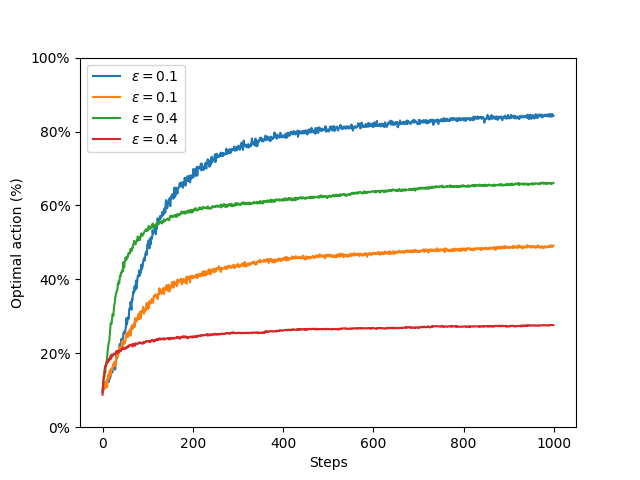
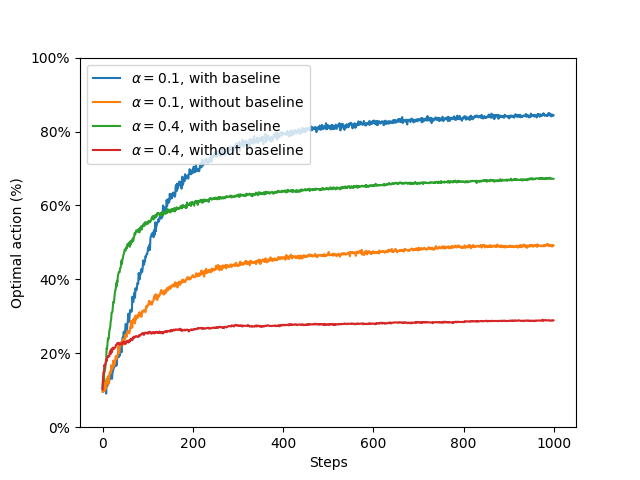
chore: Remove baseline legend from plotter

Changed region(s): [[0.125, 0.125, 0.875, 0.8438]]

diff --git a/experiments/Experiment.py b/experiments/Experiment.py
@@ -71,7 +71,7 @@ class Experiment:
             case ExperimentOption.OPTIMISTIC_INITIAL_VALUES:
                 return ["epsilon", "bias"]
             case ExperimentOption.GRADIENT_BANDIT:
-                return ["alpha", "use_baseline"]
+                return ["alpha"]
             case _:
                 raise ValueError("Invalid option")
 

diff --git a/Plotter.py b/Plotter.py
@@ -42,6 +42,6 @@ class Plotter:
             return f"$Q_1={value}$, "
         if key == "epsilon" or key == "alpha":
             return f"$\\{key}={value}$, "
-        if key == "baseline":
+        if key == "use_baseline":
             return f"{'with' if value else 'without'} baseline, "
         return ""
